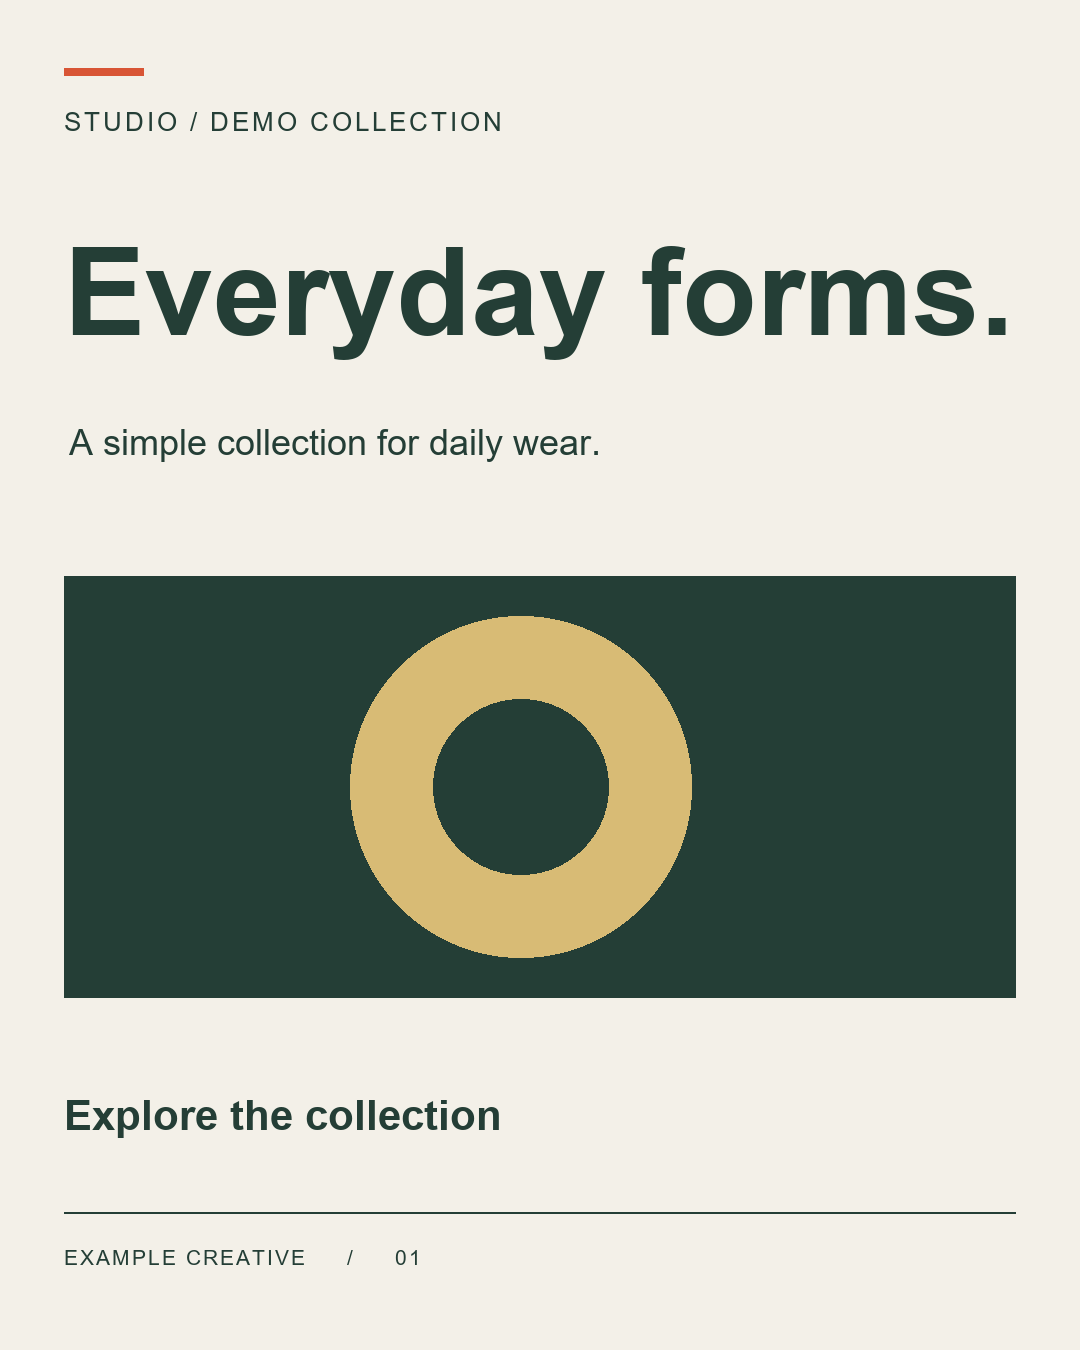
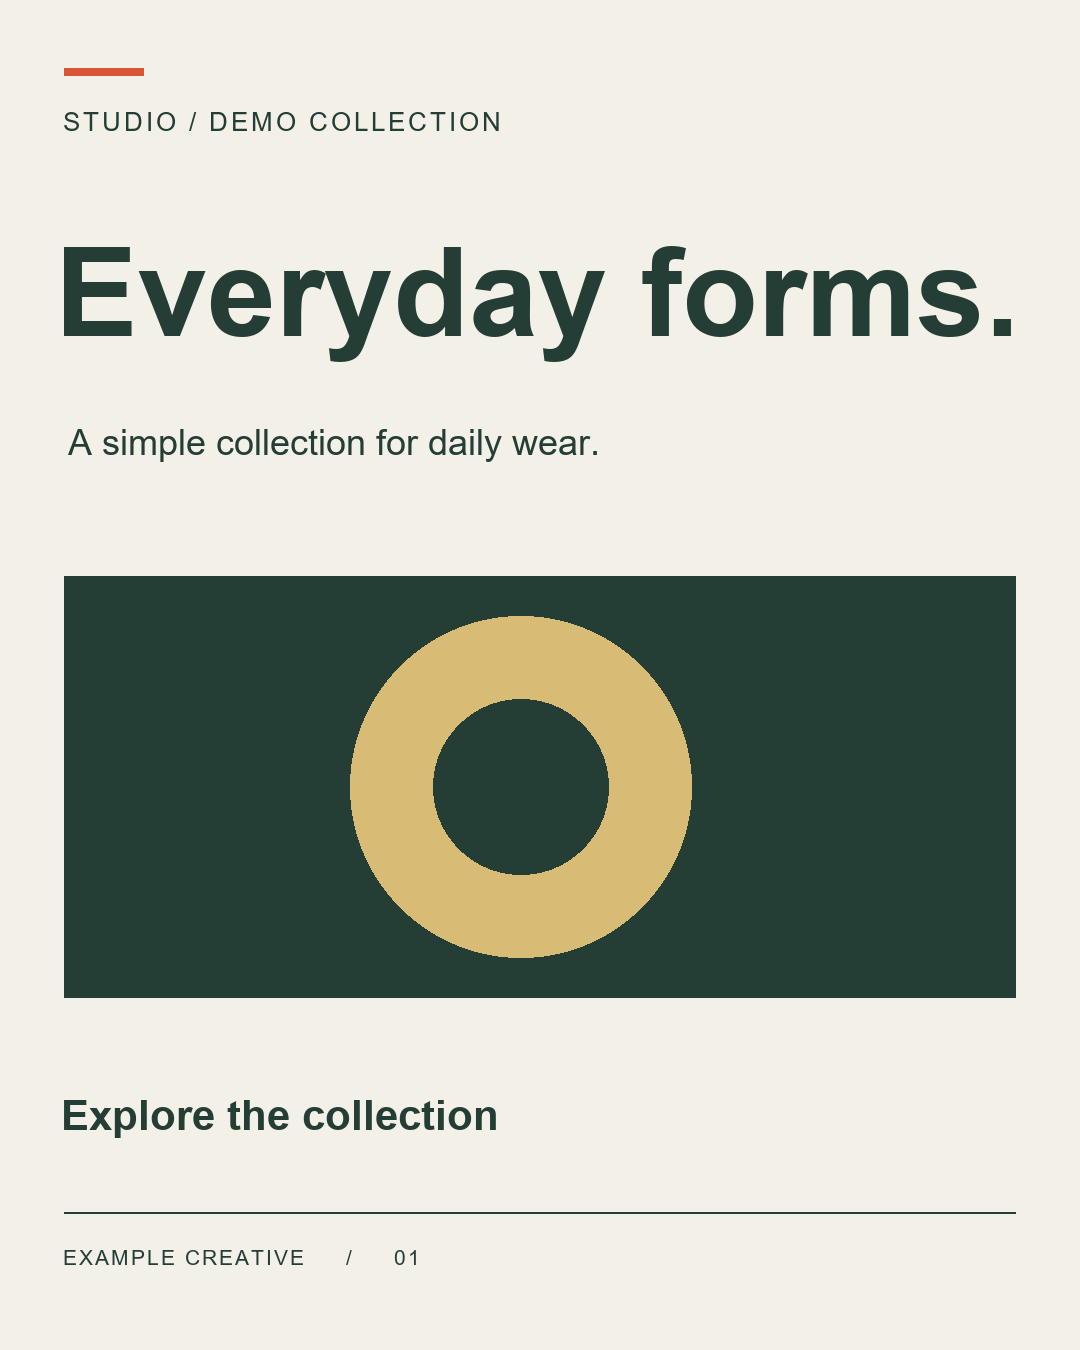
Center text using visible glyph bounds across fonts

diff --git a/render_set.py b/render_set.py
@@ -48,19 +48,30 @@ def F(fn, size):
     raise ValueError(f"Font not found: {fn}. Supply a local .ttf/.otf path in the template.")
 
 
+def ink_bounds(t, f):
+    """Measure visible pixels; font advance boxes can include side bearings."""
+    mask, (x, y) = f.getmask2(t, anchor="la")
+    b = mask.getbbox()
+    return (x + b[0], y + b[1], x + b[2], y + b[3]) if b else None
+
+
 def text_bounds(t, f, tr=0):
     """Measure the same glyph positions we draw, including bearings."""
     if not t:
         return (0, 0, 0, 0)
     if tr == 0:
-        return f.getbbox(t, anchor="la")
+        return ink_bounds(t, f) or (0, 0, 0, 0)
     # ponytail: tracking is for simple scripts; use zero for joined/complex text.
     pen = 0
     boxes = []
     for c in t:
-        left, top, right, bottom = f.getbbox(c, anchor="la")
-        boxes.append((pen + left, top, pen + right, bottom))
+        b = ink_bounds(c, f)
+        if b:
+            left, top, right, bottom = b
+            boxes.append((pen + left, top, pen + right, bottom))
         pen += f.getlength(c) + tr
+    if not boxes:
+        return (0, 0, 0, 0)
     return (min(b[0] for b in boxes), min(b[1] for b in boxes),
             max(b[2] for b in boxes), max(b[3] for b in boxes))
 

diff --git a/test_render_set.py b/test_render_set.py
@@ -32,6 +32,7 @@ class PipelineTests(unittest.TestCase):
             self.assertLess(text["size"], 80)
             self.assertAlmostEqual(text["ink_box"][0] + text["ink_box"][2] / 2, 200)
             self.assertEqual(tw("A", font, 30), tw("A", font))
+            self.assertEqual(tw("   ", font, 3), 0)
             self.assertEqual(autofit("", "auto", 8, 50, min_size=8).size, 8)
             with self.assertRaises(ValueError):
                 autofit("cannot fit", "auto", 10, 1)
